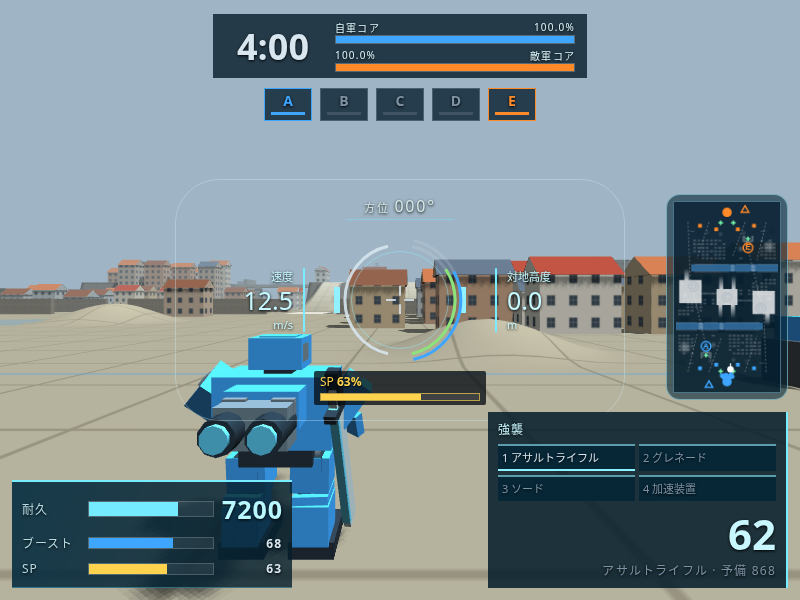
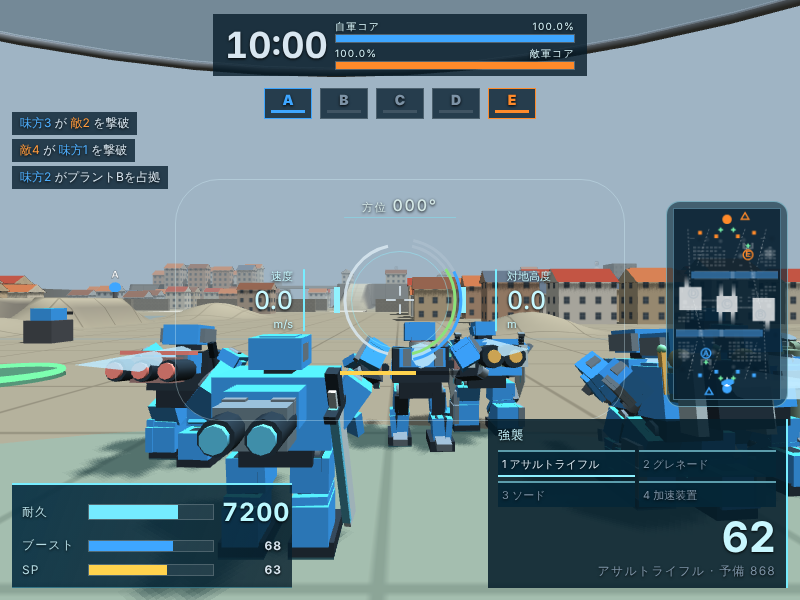
照準下のSPを黄色い棒だけにし、アーケードのコンソールを参考画像に寄せる
- SP：文字と枠をやめ、照準円の下に黄色い横棒だけを出す（作動中の緑・再充填中の暗い色・迷彩被弾の赤は棒の色で示す）
- アーケード：左上に重ねた両軍のコアの棒と秒の残り時間、BATTLE の札付きの記録、左下に機体の札と縦に伸びる斜めの耐久ゲージ、右下に大きめのマップと菱形の武器枠（十字の持ち替えと同じ並び、特別装備はSPの黄色で満ちる）
- console_hud_check.js をSPの棒とアーケードの表示に合わせた。確認画像と比較画像を撮り直した

Claude-Session: https://claude.ai/code/session_01UWLn81NSJsUX7KNqWaJsKJ

diff --git a/prototype/index.html b/prototype/index.html
@@ -75,15 +75,14 @@ canvas#view { display: block; width: 100%; height: 100%; }
 #agHeat.full.hot { stroke: var(--warn); animation: blink .25s steps(2) infinite; }
 #agBoost { stroke: var(--blue); }
 #agBoost.oh { stroke: var(--warn); }
-/* 持っている武器にかかわらず、照準円のすぐ下でSP残量を確認できる。位置は resize で円に合わせる。 */
-#aimSp { left: 50%; top: calc(50% + var(--aim-sp-offset)); transform: translateX(-50%); width: 144px; padding: 4px 6px; background: rgba(8, 14, 20, .78); border-radius: 2px; color: #ffd34d; font-size: 11px; line-height: 14px; font-variant-numeric: tabular-nums; text-shadow: 0 1px 2px #000; }
-#aimSp .lbl { display: flex; justify-content: space-between; gap: 8px; margin-bottom: 4px; }
-#aimSpState { color: var(--hud); font-size: 10px; }
-#aimSp .bar { height: 6px; border-color: rgba(255, 211, 77, .65); }
-#aimSp .bar > i { background: currentColor; }
+/* 持っている武器にかかわらず、照準円のすぐ下でSP残量を確認できる。位置は resize で円に合わせる。
+   文字や枠は出さず、黄色い棒だけ（ユーザー指定 2026-10-20「ＳＰゲージは黄色い棒だけでいいよ」） */
+#aimSp { left: 50%; top: calc(50% + var(--aim-sp-offset)); transform: translateX(-50%); width: 110px; height: 4px; }
+#aimSp .bar { height: 100%; border: 0; background: rgba(0, 0, 0, .35); }
+#aimSp .bar > i { background: #ffd34d; }
 #aimSp.oh .bar > i { background: #7a6a3a; }
-#aimSp.act { color: #a6ffcb; }
-#aimSp.act .bar { border-color: #7dffb0; animation: spGlow .7s ease-in-out infinite; }
+#aimSp.act .bar { animation: spGlow .7s ease-in-out infinite; }
+#aimSp.act .bar > i { background: #a6ffcb; }
 #aimSp.hit .bar > i { background: var(--warn); }
 @media (prefers-reduced-motion: reduce) { #aimSp.act .bar { animation: none; } }
 #lockMark { left: 0; top: 0; width: 54px; height: 54px; margin: -27px 0 0 -27px; --c: var(--warn); will-change: transform; }
@@ -257,7 +256,7 @@ canvas#view { display: block; width: 100%; height: 100%; }
 .utag.far .hb { width: 48px; height: 5px; }
 .ping { position: absolute; left: 0; top: 0; font-size: 12px; color: #ffd34d; background: var(--panel); padding: 1px 6px; white-space: nowrap; text-shadow: 0 0 4px #000; will-change: transform; }
 #bigMapC { pointer-events: auto; cursor: crosshair; } /* マウスの固定が外れているときは、地図を直接クリックできる */
-#center { left: 50%; top: max(62%, calc(50% + var(--aim-sp-offset) + 42px)); transform: translateX(-50%); font-size: 18px; letter-spacing: .1em; text-shadow: 0 0 8px #000; text-align: center; white-space: pre-line; }
+#center { left: 50%; top: max(62%, calc(50% + var(--aim-sp-offset) + 20px)); transform: translateX(-50%); font-size: 18px; letter-spacing: .1em; text-shadow: 0 0 8px #000; text-align: center; white-space: pre-line; }
 #overlay[hidden] { display: none; }
 #overlay { position: fixed; inset: 0; display: flex; overflow-y: auto; padding-block: 24px; background: rgba(5, 9, 13, .82); padding-left: max(16px, env(safe-area-inset-left, 0px)); padding-right: max(16px, env(safe-area-inset-right, 0px)); }
 .card { margin: auto; max-width: 560px; display: grid; gap: 16px; }
@@ -413,9 +412,10 @@ canvas#view { display: block; width: 100%; height: 100%; }
 .consoleMini .health { left: 8px; bottom: 8px; width: 54px; height: 16px; border-width: 0 0 3px; }
 .consoleMini .weapon { right: 8px; bottom: 8px; width: 48px; height: 22px; }
 .consoleMini[data-preview="arcade"] { --ink: #aaff64; }
-.consoleMini[data-preview="arcade"] .team { left: 8px; width: 52%; height: 9px; }
+.consoleMini[data-preview="arcade"] .team { left: 8px; width: 40%; height: 10px; background: linear-gradient(#3ec8ff 0 44%, transparent 44% 56%, #ff8a2a 56%); }
 .consoleMini[data-preview="arcade"] .map { left: auto; top: auto; right: 8px; bottom: 35px; }
-.consoleMini[data-preview="arcade"] .health { width: 55px; height: 23px; transform: skewX(-18deg); background: #aaff6466; }
+.consoleMini[data-preview="arcade"] .health { left: 40px; width: 14px; height: 36px; transform: skewX(-16deg); background: #aaff6488; border-width: 1px; }
+.consoleMini[data-preview="arcade"] .weapon { width: 30px; height: 30px; transform: rotate(45deg); right: 16px; bottom: 6px; }
 .consoleMini[data-preview="flight"] { --ink: #78edff; }
 .consoleMini[data-preview="flight"] .team { left: 35%; width: 30%; height: 10px; background: linear-gradient(#3ea6ff 0 44%, transparent 44% 56%, #ff8a2a 56%); }
 .consoleMini[data-preview="flight"] .map { left: auto; top: auto; right: 8px; bottom: 35px; }
@@ -437,29 +437,55 @@ body[data-console]:where(:not([data-console="standard"])) #status { left: max(va
 body[data-console]:where(:not([data-console="standard"])) #ammoBox { right: max(var(--console-edge), env(safe-area-inset-right, 0px)); bottom: max(var(--console-edge), env(safe-area-inset-bottom, 0px)); width: 320px; box-sizing: border-box; }
 body[data-console]:where(:not([data-console="standard"])) #ammoSub { line-height: 1.5; overflow-wrap: anywhere; }
 body[data-console]:where(:not([data-console="standard"])) #feed { left: var(--console-edge); right: auto; top: 112px; max-width: 32vw; justify-items: start; font-size: 12px; }
-body[data-console]:where(:not([data-console="standard"])) #aimSp { width: 160px; font-size: 12px; }
+body[data-console]:where(:not([data-console="standard"])) #aimSp { width: 120px; }
 body[data-console]:where(:not([data-console="standard"])) #lockAlert { top: calc(132px + env(safe-area-inset-top, 0px)); }
 body[data-console]:where(:not([data-console="standard"])) #baseAlert { top: calc(140px + var(--console-lock-height, 0px) + env(safe-area-inset-top, 0px)); }
-/* アーケード：左上に大きな時間と戦況、斜めの耐久表示、右下の戦術マップ。 */
-body[data-console="arcade"] #top { left: var(--console-edge); top: max(12px, env(safe-area-inset-top, 0px)); transform: none; padding: 5px 12px; gap: 12px; background: #081a27dd; border-left: 4px solid #85d7ff; }
-body[data-console="arcade"] #timer { order: -1; font-size: 40px; line-height: 1; }
-body[data-console="arcade"] .core { width: min(19vw, 210px); }
-body[data-console="arcade"] .core .bar { height: 12px; border: 0; }
-body[data-console="arcade"] .core .lbl { color: #e5f1f7; font-size: 11px; }
-body[data-console="arcade"] #plantBar { top: 82px; }
-body[data-console="arcade"] #mapHud { top: auto; bottom: calc(var(--console-ammo-height, 180px) + var(--console-edge) + 12px); }
-body[data-console="arcade"] #status { width: 304px; padding: 12px 16px; gap: 12px; background: linear-gradient(110deg, #092338ed, #0a1625cc); border-left: 4px solid #aaff64; border-top: 1px solid #9fceea88; }
-body[data-console="arcade"] #status .row { grid-template-columns: 58px 1fr 60px; font-size: 12px; }
-body[data-console="arcade"] #status .row:first-child { min-height: 36px; }
-body[data-console="arcade"] #hp { height: 24px; transform: skewX(-18deg); border: 1px solid #b7ff6e; }
-body[data-console="arcade"] #hp > i { background: #b4ff68; }
-body[data-console="arcade"] #hpT { font-size: 25px; }
-body[data-console="arcade"] #ammoBox { border-top: 3px solid #82d8ff; background: #091a2ae8; }
-body[data-console="arcade"] #wpn { grid-template-columns: repeat(2, minmax(0, 1fr)); gap: 4px; text-align: left; justify-items: stretch; }
-body[data-console="arcade"] #wcls { grid-column: 1 / -1; color: #9fe0ff; }
-body[data-console="arcade"] #wpn > span:not(#wcls) { padding: 4px 6px; background: #ffffff0a; border-left: 2px solid #6c8ba0; }
-body[data-console="arcade"] #wpn > .on { background: #174b6a; border-left-color: #a8efff; }
-body[data-console="arcade"] #ammo { font-size: 40px; }
+/* アーケード（ユーザー指定 2026-10-20、参考画像に寄せる）：左上に重ねた両軍のコアと秒の残り時間、左に BATTLE の記録、
+   左下に機体の札と縦に伸びる斜めの耐久ゲージ、右下にマップと菱形の武器枠（並びは十字の持ち替えと同じ。特別装備はSPの黄色で満ちる）。 */
+body[data-console="arcade"] { --console-map-width: 176px; }
+body[data-console="arcade"] #top { left: var(--console-edge); top: max(12px, env(safe-area-inset-top, 0px)); transform: none; display: grid; gap: 4px; padding: 8px 44px 6px 12px; background: linear-gradient(90deg, #081a27f0, #081a27c0); border-left: 4px solid #85d7ff; clip-path: polygon(0 0, 100% 0, calc(100% - 30px) 100%, 0 100%); }
+body[data-console="arcade"] .core { width: min(22vw, 250px); display: flex; align-items: center; gap: 8px; }
+body[data-console="arcade"] .core .bar { flex: 1; order: -1; height: 10px; border: 0; transform: skewX(-20deg); }
+body[data-console="arcade"] #coreB > i { background: #3ec8ff; }
+body[data-console="arcade"] #coreR > i { margin-left: 0; }
+body[data-console="arcade"] .core .lbl { min-width: 44px; justify-content: flex-end; color: #e5f1f7; font-size: 10px; letter-spacing: .04em; }
+body[data-console="arcade"] #coreBn, body[data-console="arcade"] #coreRn { display: none; }
+body[data-console="arcade"] #timer { order: 1; min-width: 0; text-align: left; font-size: 40px; line-height: 1; font-style: italic; letter-spacing: .02em; }
+body[data-console="arcade"] #plantBar { top: max(14px, env(safe-area-inset-top, 0px)); }
+body[data-console="arcade"] #feed { top: calc(122px + env(safe-area-inset-top, 0px)); gap: 2px; }
+body[data-console="arcade"] #feed::before { content: 'BATTLE'; justify-self: start; margin-bottom: 2px; padding: 1px 14px 1px 6px; font: 700 10px var(--display); letter-spacing: .14em; color: #cfe6f2; background: #0b1c2ad9; clip-path: polygon(0 0, 100% 0, calc(100% - 6px) 100%, 0 100%); }
+body[data-console="arcade"] #feed div { background: linear-gradient(90deg, #0b1c2ab8, transparent); padding: 1px 28px 1px 6px; }
+body[data-console="arcade"] #mapHud { top: auto; bottom: calc(var(--console-ammo-height, 180px) + var(--console-edge) + 10px); }
+body[data-console="arcade"] #mini { border: 1px solid #9fe0ffaa; box-shadow: 0 0 0 3px #0b1c2acc; }
+#pilot { display: none; }
+body[data-console="arcade"] #status { width: 330px; padding: 10px 36px 10px 14px; display: grid; grid-template-columns: minmax(0, 1fr) 84px; gap: 0 10px; align-items: end; background: linear-gradient(100deg, #092338f0 55%, #0a1625c0); border-left: 4px solid #aaff64; clip-path: polygon(0 0, 100% 0, calc(100% - 30px) 100%, 0 100%); }
+body[data-console="arcade"] #pilot { display: grid; grid-column: 1; grid-row: 1; align-self: center; grid-template-columns: 52px minmax(0, 1fr); gap: 4px 10px; align-items: center; }
+body[data-console="arcade"] #pilotMark { grid-row: 1 / 3; width: 52px; height: 52px; display: grid; place-items: center; font: 700 26px var(--display); color: #0b1c2a; background: linear-gradient(135deg, #b4ff68, #4fc0ff); clip-path: polygon(8px 0, 100% 0, calc(100% - 8px) 100%, 0 100%); }
+body[data-console="arcade"] #pilotName { min-width: 0; overflow: hidden; white-space: nowrap; text-overflow: ellipsis; font-size: 16px; color: #fff; }
+body[data-console="arcade"] #pilotCls { justify-self: start; padding: 1px 8px; font-size: 10px; letter-spacing: .08em; color: #cfe6f2; background: #ffffff1c; clip-path: polygon(4px 0, 100% 0, calc(100% - 4px) 100%, 0 100%); }
+body[data-console="arcade"] #status .row:not(:first-child) { display: none; }
+body[data-console="arcade"] #status .row:first-child { grid-column: 2; grid-row: 1; grid-template-columns: auto auto; grid-template-areas: "bar bar" "lbl num"; justify-content: space-between; align-items: baseline; gap: 4px 6px; font-size: 10px; }
+body[data-console="arcade"] #status .row:first-child > span { grid-area: lbl; white-space: nowrap; }
+body[data-console="arcade"] #hp { grid-area: bar; justify-self: center; width: 60px; height: 104px; display: flex; align-items: flex-end; transform: skewX(-16deg); background: #0b2a14b0; border: 1px solid #b7ff6e99; }
+body[data-console="arcade"] #hp > i { width: 100% !important; height: var(--fill, 100%); background: linear-gradient(#e2ff8a, #8ee83c); transition: height .15s; }
+body[data-console="arcade"] #status.low #hp > i { background: linear-gradient(#ffc27a, var(--warn)); }
+body[data-console="arcade"] #hpT { grid-area: num; font-size: 16px; }
+body[data-console="arcade"] #ammoBox { width: 340px; padding: 0; background: none; text-align: left; }
+body[data-console="arcade"] #wcls, body[data-console="arcade"] #ammo { display: none; }
+body[data-console="arcade"] #wpn { justify-items: stretch; grid-template-columns: repeat(4, minmax(0, 1fr)); grid-template-areas: ". main main ." "sp sp sub sub" ". aux aux ."; gap: 4px 6px; margin: 0; }
+body[data-console="arcade"] #w-main { grid-area: main; }
+body[data-console="arcade"] #w-sub { grid-area: sub; }
+body[data-console="arcade"] #w-aux { grid-area: aux; }
+body[data-console="arcade"] #w-sp { grid-area: sp; }
+body[data-console="arcade"] #wpn > span[id^="w-"] { display: grid; align-content: center; min-width: 0; min-height: 40px; padding: 3px 18px; font-size: 0; color: #e8f4fa; background: #0b1c2ae6; box-shadow: none; clip-path: polygon(12px 0, 100% 0, calc(100% - 12px) 100%, 0 100%); }
+body[data-console="arcade"] #wpn > span[id^="w-"]::before { content: attr(data-n); font: 700 20px/1.1 var(--display); font-variant-numeric: tabular-nums; }
+body[data-console="arcade"] #wpn > span[id^="w-"]::after { content: attr(data-name); min-width: 0; overflow: hidden; white-space: nowrap; text-overflow: ellipsis; font-size: 10px; color: #a9c0cd; }
+body[data-console="arcade"] #wpn > span.on { color: #c4ff72; background: linear-gradient(90deg, #24601ef2, #0f3418e6); }
+body[data-console="arcade"] #wpn > span.on::before { font-size: 24px; }
+body[data-console="arcade"] #wpn > #w-sp { background: linear-gradient(90deg, #d9c21ae6 var(--fill, 0%), #0b1c2ae6 var(--fill, 0%)); text-shadow: 0 1px 2px #000; }
+body[data-console="arcade"] #wpn > #w-sp::after { color: #fff; }
+body[data-console="arcade"] #wpn > span.act { color: #7dffb0; }
+body[data-console="arcade"] #ammoSub { margin-top: 4px; padding: 3px 10px; background: #0b1c2acc; text-align: right; }
 body[data-console="arcade"] #lockRing { border-width: 2px; }
 /* フライト：上中央に積む戦況、丸みのある計器枠と中央下の装備パネル。 */
 body[data-console="flight"] .hud { --panel: #071f30cc; }
@@ -510,7 +536,6 @@ body[data-console="mechanical"] #wpn > span:not(#wcls) { border-top: 1px solid #
 body[data-console="mechanical"] #wpn > .on { border-top-color: #efffff; box-shadow: none; color: #efffff; }
 body[data-console="mechanical"] #wpn > .act { color: #7dffb0; }
 body[data-console="mechanical"] #ammo { font-size: 32px; }
-body[data-console="mechanical"] #aimSp { background: #07121899; border-bottom: 1px solid #c8d9d755; }
 body[data-console="mechanical"] #lockRing { border-color: #c6d9d744; }
 body[data-console="mechanical"] #lockRing::before { content: ''; position: absolute; inset: -9px; border: 1px solid #d9eeec88; clip-path: polygon(0 0, 22% 0, 22% 2%, 2% 2%, 2% 22%, 0 22%, 0 0, 100% 0, 100% 22%, 98% 22%, 98% 2%, 78% 2%, 78% 0, 100% 0, 100% 100%, 78% 100%, 78% 98%, 98% 98%, 98% 78%, 100% 78%, 100% 100%, 0 100%, 0 78%, 2% 78%, 2% 98%, 22% 98%, 22% 100%, 0 100%); }
 body[data-console="flight"] #lockRing.acq, body[data-console="mechanical"] #lockRing.acq { border-color: #ffc46e; }
@@ -532,6 +557,12 @@ body[data-console="mechanical"] #consoleHeading { bottom: max(var(--console-edge
   body[data-console="flight"] #wpn { position: static; transform: none; width: auto; grid-template-columns: repeat(2, minmax(0, 1fr)); }
   body[data-console="flight"] #wpn > span:not(#wcls) { padding: 4px; }
   body[data-console="mechanical"] #consoleHeading { width: clamp(64px, calc(16vw - 24px), 160px); letter-spacing: .02em; }
+  body[data-console="arcade"] #plantBar { left: auto; right: var(--console-edge); transform: none; }
+  body[data-console="arcade"] #status { padding: 8px 30px 8px 10px; grid-template-columns: minmax(0, 1fr) 80px; }
+  body[data-console="arcade"] #pilot { grid-template-columns: 40px minmax(0, 1fr); }
+  body[data-console="arcade"] #pilotMark { width: 40px; height: 40px; font-size: 20px; }
+  body[data-console="arcade"] #hp { width: 48px; height: 84px; }
+  body[data-console="arcade"] #ammoBox { padding: 0; }
 }
 @media (max-width: 700px), (max-height: 540px) {
   #consoleList { grid-template-columns: 1fr; }
@@ -541,18 +572,26 @@ body[data-console="mechanical"] #consoleHeading { bottom: max(var(--console-edge
   body[data-console]:where(:not([data-console="standard"])) #status .row { grid-template-columns: 46px 1fr 60px; gap: 5px; font-size: 10px; letter-spacing: 0; }
   body[data-console="mechanical"] #status .row:first-child { grid-template-columns: 46px 1fr; }
   body[data-console="arcade"] #timer { min-width: 66px; font-size: 30px; }
-  body[data-console="arcade"] #hpT { font-size: 20px; }
+  body[data-console="arcade"] #hpT { font-size: 14px; }
+  body[data-console="arcade"] #hp { height: 64px; }
+  body[data-console="arcade"] #pilotName { font-size: 13px; }
+  body[data-console="arcade"] #wpn > span[id^="w-"] { min-height: 32px; padding: 2px 14px; }
+  body[data-console="arcade"] #wpn > span[id^="w-"]::before { font-size: 15px; }
   body[data-console="flight"] #hpT { font-size: 20px; }
   body[data-console="mechanical"] #hpT { font-size: 28px; }
   body[data-console]:where(:not([data-console="standard"])) #wpn { font-size: 10px; }
   body[data-console]:where(:not([data-console="standard"])) #ammo { font-size: 28px; }
   body[data-console]:where(:not([data-console="standard"])) #ammoSub { font-size: 10px; }
   body[data-console]:where(:not([data-console="standard"])) #feed { top: 86px; font-size: 10px; }
+  body[data-console="arcade"] #feed { top: calc(108px + env(safe-area-inset-top, 0px)); }
 }
 @media (max-width: 700px) {
   /* 中央のSPバーの左右に余白を確保し、縦に長い武器説明とも重ねない。 */
   body[data-console]:where(:not([data-console="standard"])) #status,
   body[data-console]:where(:not([data-console="standard"])) #ammoBox { width: calc(50vw - 104px); }
+  body[data-console="arcade"] #pilot { grid-template-columns: minmax(0, 1fr); }
+  body[data-console="arcade"] #pilotMark { display: none; }
+  body[data-console="arcade"] #pilotCls { white-space: nowrap; }
 }
 @media (max-height: 640px) {
   body[data-console="flight"]:has(#lockAlert:not([hidden]), #baseAlert:not([hidden])) #consoleHeading { visibility: hidden; }
@@ -574,7 +613,7 @@ body[data-console="mechanical"] #consoleHeading { bottom: max(var(--console-edge
 <div class="hud" id="cross"></div>
 <div class="hud" id="lockRing"></div>
 <svg class="hud" id="aimGauge"><path class="bg" id="agAmmoBg"/><path id="agAmmo" pathLength="100"/><path class="bg" id="agHpBg"/><path id="agHp" pathLength="100"/><path class="bg" id="agHeatBg"/><path id="agHeat" pathLength="100"/><path class="bg" id="agBoostBg"/><path id="agBoost" pathLength="100"/></svg>
-<div class="hud" id="aimSp" hidden><div class="lbl"><span>SP <b id="aimSpT">100%</b></span><span id="aimSpState"></span></div><div class="bar" id="aimSpBar" role="meter" aria-label="SP残量" aria-valuemin="0" aria-valuemax="100" aria-valuenow="100"><i></i></div></div>
+<div class="hud" id="aimSp" hidden><div class="bar" id="aimSpBar" role="meter" aria-label="SP残量" aria-valuemin="0" aria-valuemax="100" aria-valuenow="100"><i></i></div></div>
 <div class="hud" id="consoleTelemetry" hidden><div class="instrument flightOnly" id="consoleSpeed">速度<b id="consoleSpeedT">0</b>m/s</div><div class="instrument flightOnly" id="consoleAltitude">対地高度<b id="consoleAltitudeT">0</b>m</div><div id="consoleHeading">方位 <b id="consoleHeadingT">000°</b></div></div>
 <div class="hud" id="tags"></div>
 <div class="hud" id="lockMark" hidden><div class="br"></div><div class="info"><span id="lockName"></span> <b id="lockDist"></b><div class="hpb"><i id="lockHp"></i></div></div></div>
@@ -596,6 +635,7 @@ body[data-console="mechanical"] #consoleHeading { bottom: max(var(--console-edge
   <div class="row"><span>耐久</span><div class="bar" id="hp"><i></i></div><b id="hpT">10000</b></div>
   <div class="row"><span>ブースト</span><div class="bar" id="boost"><i></i></div><b id="boostT">100</b></div>
   <div class="row"><span>SP</span><div class="bar" id="sp"><i></i></div><b id="spT">100</b></div>
+  <div id="pilot"><span id="pilotMark"></span><b id="pilotName"></b><small id="pilotCls"></small></div>
 </div>
 <div class="hud" id="ammoBox"><div id="wpn"><span id="wcls"></span><span id="w-main"></span><span id="w-sub"></span><span id="w-aux"></span><span id="w-sp"></span></div><div id="ammo">40</div><small id="ammoSub">アサルトライフル · 予備 ∞</small></div>
 
@@ -646,7 +686,7 @@ body[data-console="mechanical"] #consoleHeading { bottom: max(var(--console-edge
         <kbd>追加副武器</kbd><span>二段ズーム狙撃銃は右クリックで低倍率→高倍率→通常視点。蓄圧砲は左長押しで半充填・満充填、離して発射（保持しすぎると過熱）。熱球は炸裂後に一定時間残り、連鎖ボムは接地後に前方へ連続爆発します。跳躍地雷は敵を感知して上昇後に起爆。衝撃吸着地雷は壁にも設置でき、感知から1秒後に炸裂。遠隔ボムランチャーは射出した爆弾の吸着準備が済んだ後、右クリックで一括起爆します</span>
         <kbd>榴弾砲</kbd><span>重火力の特別装備で選ぶと、移動・旋回を止めて射撃モードへ。マウスで拡大マップの照準を動かし、左クリックで爆撃中心を指定するとSPが尽きるまで連射します。射程は緑の円、着弾誤差は黄色の円。射撃前・射撃中とも右クリックで中断して直前の武器へ戻れます。中断でSPを残すと再充填が早まります。着弾2秒前に火柱と落下音で予告します</span>
         <kbd>追加の特別装備</kbd><span>重火力の防護バリアと遊撃の背部自動銃は、選ぶと起動し、再選択で停止します。手持ち武器と同時に使えます。支援のリペアビーコンは左クリックで投げて地面に設置し、範囲内の味方を回復・蘇生します。特別装備を再選択し、持ち替えが終わると回収します。各3種類を機体カスタマイズで選べます</span>
-        <kbd>SP</kbd><span>特別装備はSPゲージを使います。残量は照準円のすぐ下でいつでも確認できます。使わない間に戻り、使い切ると満タンになるまで使えません（再充填中と表示）</span>
+        <kbd>SP</kbd><span>特別装備はSPゲージを使います。残量は照準円のすぐ下の黄色い棒でいつでも確認できます。使わない間に戻り、使い切ると満タンになるまで使えません（その間は棒が暗くなります）</span>
         <kbd>強襲</kbd><span>アサルトライフル、グレネード（当たると爆発）、ソード、加速装置（選ぶと作動し、持っている武器はそのまま。作動中は画面の特別装備の名前とSPゲージが緑に光って点滅。作動中はShift長押しでブーストの代わりにSPを使って前へ高速移動し、そのまま撃てる。短押しのショートダッシュはそのまま。もう一度選ぶと止まる）</span>
         <kbd>重火力</kbd><span>耐久14000（ほかは10000）。武器が重く、標準のパーツでは重量耐性を超えるので少し遅い。ガトリング、ロケットランチャー（弾速120m/s、爆発半径14m）、弱化グレネード（巻き込んだ敵の被ダメージを5秒間1.4倍）、重砲（構えて動けない。山なりの砲撃を6発）</span>
         <kbd>遊撃</kbd><span>二丁拳銃、狙撃銃、偵察機（屈んで打ち上げ、見つけた敵を味方のミニマップに映す）、光学迷彩（選ぶと姿を消し、持っている武器はそのまま。作動中は画面の特別装備の名前とSPゲージが緑に光って点滅。敵にロックされない。止まっているとだんだん見えにくくなり、動くと揺らぎ、撃つと大きく揺らぐ。被弾するとSPが大きく削られる。もう一度選ぶと解除）</span>
@@ -7185,7 +7225,7 @@ for (const el of [$('ovCls'), $('rcls')]) el.addEventListener('click', e => { co
 // コンソールは表示だけを切り替える。装備・兵装・試合の保存データとは独立させる。
 const CONSOLES = [
   { id: 'standard', name: '標準', desc: '現在の配置。左上のマップ、四隅の情報、照準の弧を使う基本の画面。' },
-  { id: 'arcade', name: 'アーケード', desc: '左上の大きな時間・戦況と斜めの耐久ゲージ。マップと装備は右下に集約。' },
+  { id: 'arcade', name: 'アーケード', desc: '左上に両軍のコアと秒の残り時間、左下に機体の札と縦の耐久ゲージ、右下にマップと菱形の武器枠。' },
   { id: 'flight', name: 'フライト', desc: '青緑の飛行計器。照準の左右に速度と対地高度、中央下に4枠の装備を配置。' },
   { id: 'mechanical', name: 'メカニカル', desc: '細い白線と大きな耐久数値。左下の機体情報、右下の装備、下中央の方位計。' },
 ];
@@ -7197,7 +7237,7 @@ function setConsole(id, save = true) {
   consoleMode = c.id;
   document.body.dataset.console = c.id;
   $('consoleNow').textContent = c.name;
-  $('consoleSelection').textContent = `選択中：${c.name}。照準の下のSP残量と、戦闘に必要な情報はすべての配置で確認できます。`;
+  $('consoleSelection').textContent = `選択中：${c.name}。照準の下のSPの棒と、戦闘に必要な情報はすべての配置で確認できます。`;
   for (const b of $('consoleList').querySelectorAll('button')) b.setAttribute('aria-pressed', b.dataset.consoleChoice === c.id);
   // 戦闘のループを待たず、スコープ中・撃破中の切り替えにも反映する。
   consoleTelemetry(player);
@@ -7836,11 +7876,17 @@ function hud(timeLeft, dt) {
   const gauge = (k, pc) => VS ? String(Math.max(0, Math.round(cores[k].hp))) : pc.toFixed(1) + '%'; // コスト制は戦力の残りをそのまま出す
   $('coreB').firstChild.style.width = pb + '%'; $('coreBt').textContent = gauge('B', pb);
   $('coreR').firstChild.style.width = pr + '%'; $('coreRt').textContent = gauge('R', pr);
-  $('timer').textContent = fmt(timeLeft);
+  const arcade = consoleMode === 'arcade';
+  $('timer').textContent = arcade ? String(Math.max(0, Math.ceil(timeLeft))) : fmt(timeLeft); // アーケードは秒で数える
   const p = player;
   consoleTelemetry(p);
   $('status').classList.toggle('low', p.hp / p.maxHp <= .3);
   $('hp').firstChild.style.width = Math.max(0, p.hp / p.maxHp * 100) + '%'; $('hpT').textContent = Math.max(0, Math.round(p.hp));
+  if (arcade) { // 縦に伸びる耐久ゲージと機体の札
+    $('hp').style.setProperty('--fill', Math.max(0, p.hp / p.maxHp * 100) + '%');
+    const cn = CLASSES[p.cls].name;
+    if ($('pilotCls').textContent !== cn) { $('pilotCls').textContent = cn; $('pilotMark').textContent = cn[0]; $('pilotName').textContent = p.name; }
+  }
   $('boost').firstChild.style.width = p.boost / p.maxBoost * 100 + '%'; $('boostT').textContent = Math.round(p.boost);
   $('boost').classList.toggle('oh', p.overheat);
   const sps = p.slots.sp;
@@ -7854,8 +7900,6 @@ function hud(timeLeft, dt) {
   for (const state of ['oh', 'hit', 'act']) aimSp.classList.toggle(state, $('sp').classList.contains(state));
   $('aimSpBar').firstChild.style.width = sps.heat + '%';
   $('aimSpBar').setAttribute('aria-valuenow', Math.round(sps.heat));
-  $('aimSpT').textContent = Math.round(sps.heat) + '%';
-  $('aimSpState').textContent = sps.overheat ? '再充填中' : spOn ? '作動中' : '';
   const cur = p.slots[p.weapon], cw = cur.w;
   $('wcls').textContent = CLASSES[p.cls].name;
   SLOTS.forEach((k, i) => { const el = $('w-' + k); el.textContent = `${i + 1} ${p.slots[k].w.name}${k === 'sp' && spOn ? '（作動中）' : ''}`; el.classList.toggle('on', p.weapon === k); el.classList.toggle('act', k === 'sp' && spOn); });
@@ -7895,6 +7939,10 @@ function hud(timeLeft, dt) {
   if (p.post) small += ' · リペアビーコン 設置中（特別装備を再選択で回収）';
   if (p.fieldOn) small += ` · リペアフィールド 作動中（味方${p.fieldN || 0}機を回復）`;
   $('ammo').textContent = big; $('ammoSub').textContent = small;
+  if (arcade) { // 菱形の武器枠：持っている武器は大きな数字と同じ値、ほかは弾倉の残り（剣は∞、SPを使う物は%）
+    SLOTS.forEach(k => { const sl = p.slots[k], el = $('w-' + k); el.dataset.n = k === p.weapon ? big : sl.w.mag ? sl.ammo : sl.w.type === 'sword' ? '∞' : Math.round(sl.heat) + '%'; el.dataset.name = sl.w.name; });
+    $('w-sp').style.setProperty('--fill', sps.heat + '%');
+  }
   if (!p.alive) wsel.open = qc.open = false;
   $('qchat').hidden = !qc.open;
   if (qc.open) QCHAT.forEach((q, i) => $('qc' + i).classList.toggle('sel', qc.pick === i));

diff --git a/tools/test/console_hud_check.js b/tools/test/console_hud_check.js
@@ -51,10 +51,11 @@ const yes = (v, label) => { if (!v) throw Error(label); checks.push(label); };
         document.querySelector(`[data-console-choice="${mode}"]`).click();
         g.equip(u, 'raid'); u.alive = true; u.invulT = 0; u.hp = 2100; u.boost = u.maxBoost * .4; u.slots.sp.heat = 37; u.slots.sp.overheat = true;
         g.hud(240, .016);
-        const values = $('aimSpT').textContent === '37%' && $('spT').textContent === '37' && $('hpT').textContent === '2100' && $('status').classList.contains('low') && $('aimSpState').textContent === '再充填中';
+        const values = $('aimSpBar').getAttribute('aria-valuenow') === '37' && $('aimSpBar').firstChild.style.width === '37%' && !$('aimSp').textContent.trim() && $('spT').textContent === '37' && $('hpT').textContent === '2100' && $('status').classList.contains('low') && $('aimSp').classList.contains('oh')
+          && (mode !== 'arcade' || $('timer').textContent === '240' && $('hp').style.getPropertyValue('--fill') === '21%' && $('pilotCls').textContent === '遊撃' && $('w-sp').style.getPropertyValue('--fill') === '37%' && $('w-' + u.weapon).dataset.n === $('ammo').textContent && $('w-sub').dataset.n === String(u.slots.sub.ammo) && $('w-sp').dataset.n === '37%');
         u.slots.sp.overheat = false; g.toggleSp(u); const before = u.slots.sp.heat;
         g.weaponsTick(u, .5, false, u.pos.clone(), 0); g.hud(240, .016);
-        const active = u.slots.sp.heat < before && $('aimSpState').textContent === '作動中' && $('aimSp').classList.contains('act');
+        const active = u.slots.sp.heat < before && $('aimSp').classList.contains('act') && !$('aimSp').classList.contains('oh');
         u.slots.sp.cd = 0; g.toggleSp(u); const used = u.slots.sp.heat;
         g.weaponsTick(u, .5, false, u.pos.clone(), 0); g.hud(240, .016);
         const recovery = u.slots.sp.heat > used && $('aimSpBar').firstChild.style.width === $('sp').firstChild.style.width;

diff --git a/media/hud-consoles/README.md b/media/hud-consoles/README.md
@@ -9,6 +9,8 @@
 | フライト | 星と翼のパラドクス。積み重ねる両軍ゲージ、丸い計器枠、中央下の装備 | [1440×900](flight.png)／[800×600](flight-small.png) |
 | メカニカル | AC6。細い白線、大きな耐久数値、左右下の情報と方位計 | [1440×900](mechanical.png)／[800×600](mechanical-small.png) |
 
+4種類を並べた比較：[compare.png](compare.png)。4種類の実画面（1440×900・800×600）は、SPを黄色い棒だけにしてアーケードを参考画像に寄せた後（2026-10-20、ユーザー指定）に撮り直した。
+
 [選択画面](selection.png)／[640×480・複数の警告・長い装備説明](warnings-compact.png)。本体から作った確認用ページで、数値・位置・装備を固定し、本体のHUDと3DをChromiumで実描画したもの。撮影用ページではWebGLのフレーム保持を有効にしている。参照作品の画像やロゴはゲームにもこのフォルダにも含めていない。[参考資料と本作への当てはめ](../../research/hud-consoles.md)。
 
 照準の下のSP残量は全種類で共通。フライトの速度は上下を含む実速度、対地高度は足元から下の地面・床までの距離。切り替えは画面だけに作用する。
